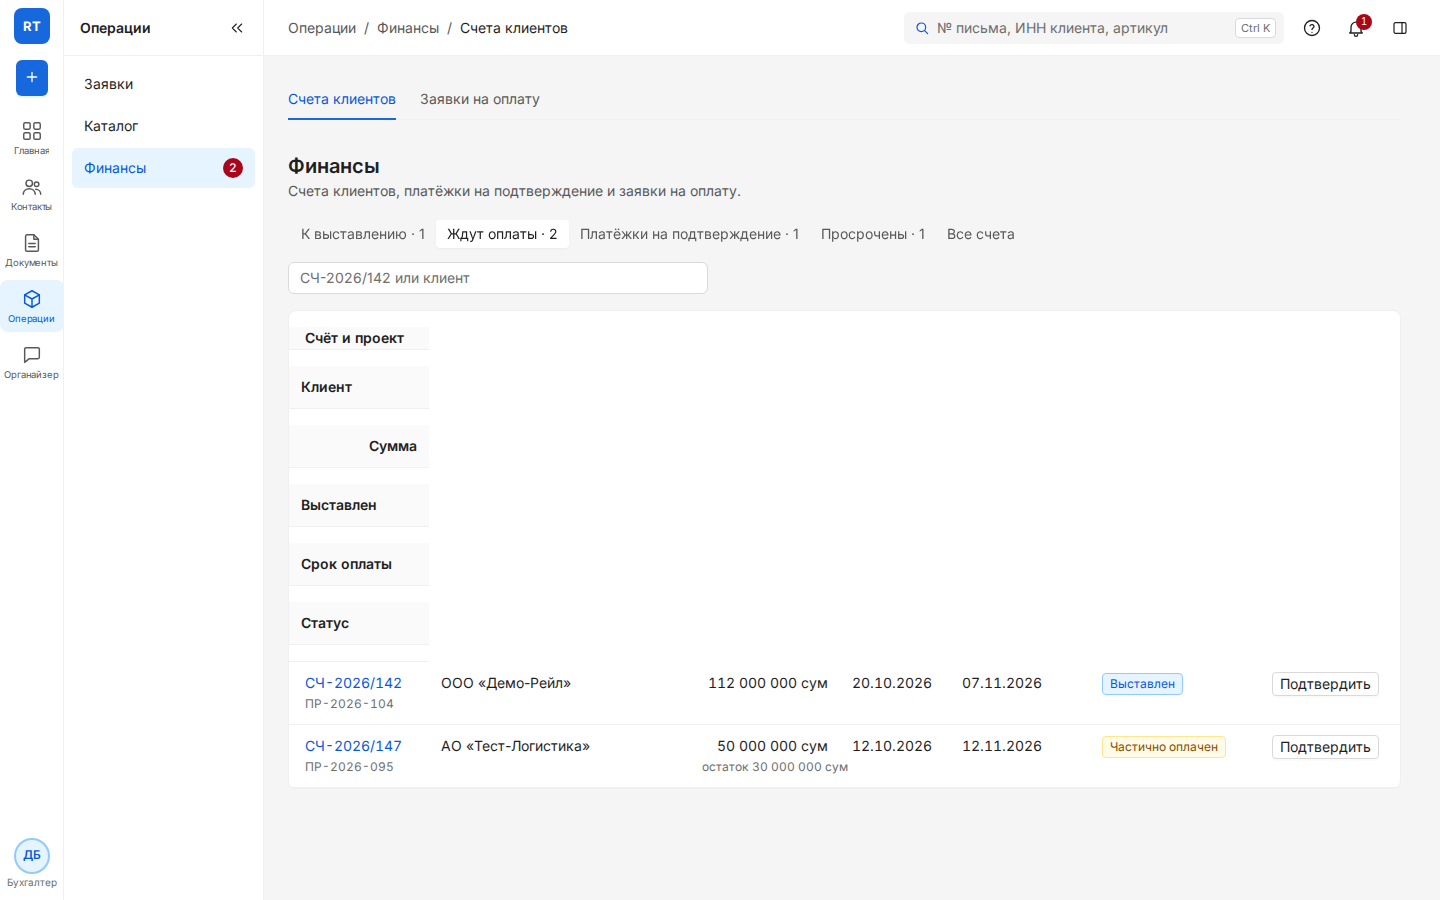
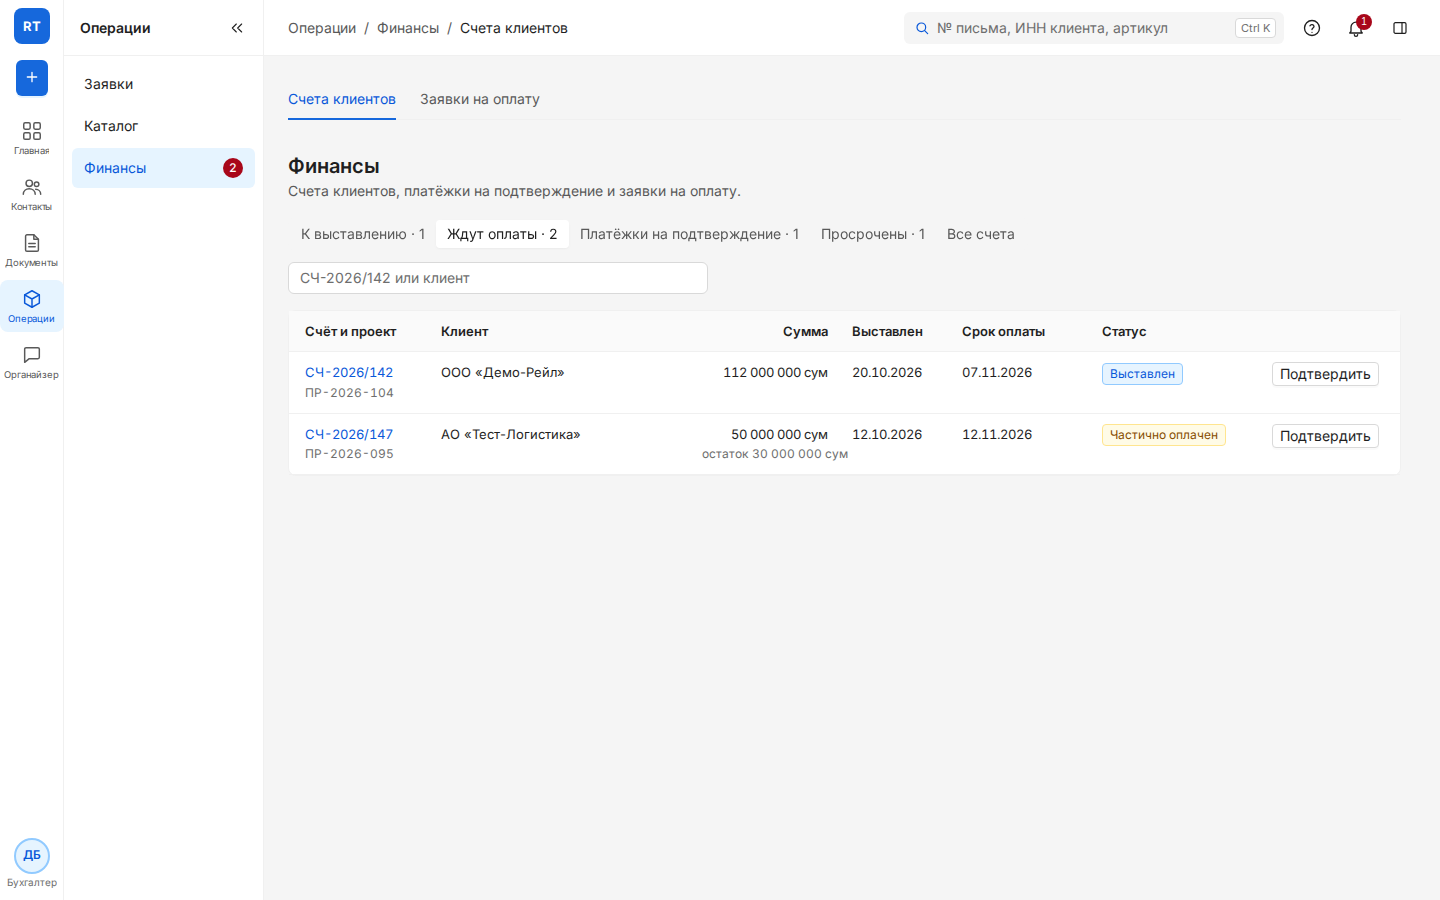
fix(platform): keep finance table styles when dropping old tab styles (operations)
Claude-Session: https://claude.ai/code/session_01PWGEKSEeREB93LLZqRcCYv

diff --git a/apps/platform/web/src/modules/eds/payments/payments.css b/apps/platform/web/src/modules/eds/payments/payments.css
@@ -80,8 +80,18 @@
 
 /* Таблицы счетов и служебок плотнее общих: с открытым боковым окном на 1440 px должны уместиться статус и действие */
 .pf-pay-table th,
+.pf-pay-table td {
+  padding: 10px 8px;
+  font-size: 13px;
+}
 .pf-pay-table th:first-child,
+.pf-pay-table td:first-child {
+  padding-left: 16px;
+}
 .pf-pay-table th:last-child,
+.pf-pay-table td:last-child {
+  padding-right: 16px;
+}
 
 /* Смена реквизитов контрагента (FX-4): одна колонка карточек, на телефоне тоже. */
 .pf-bank-list {
